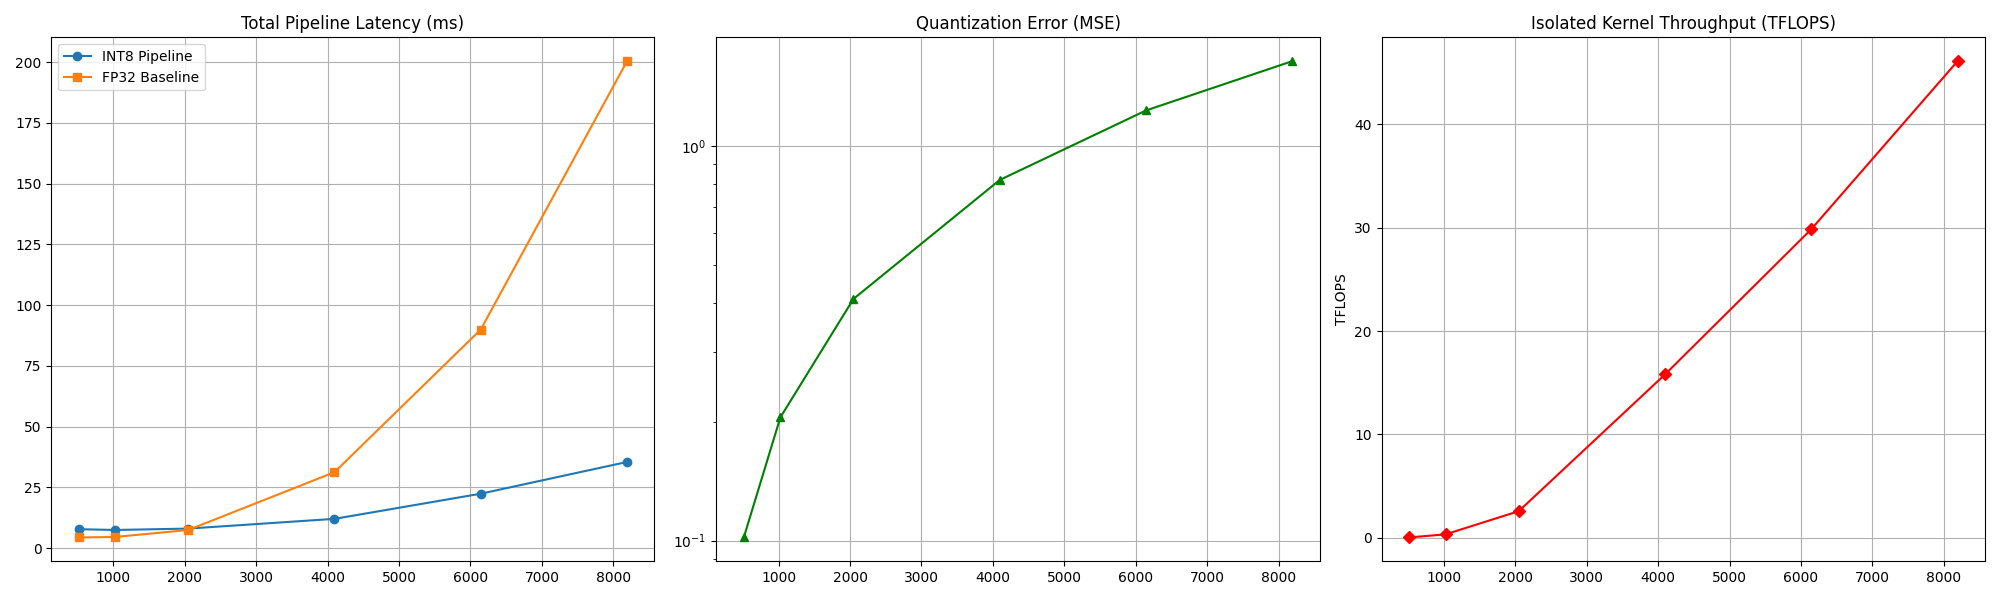
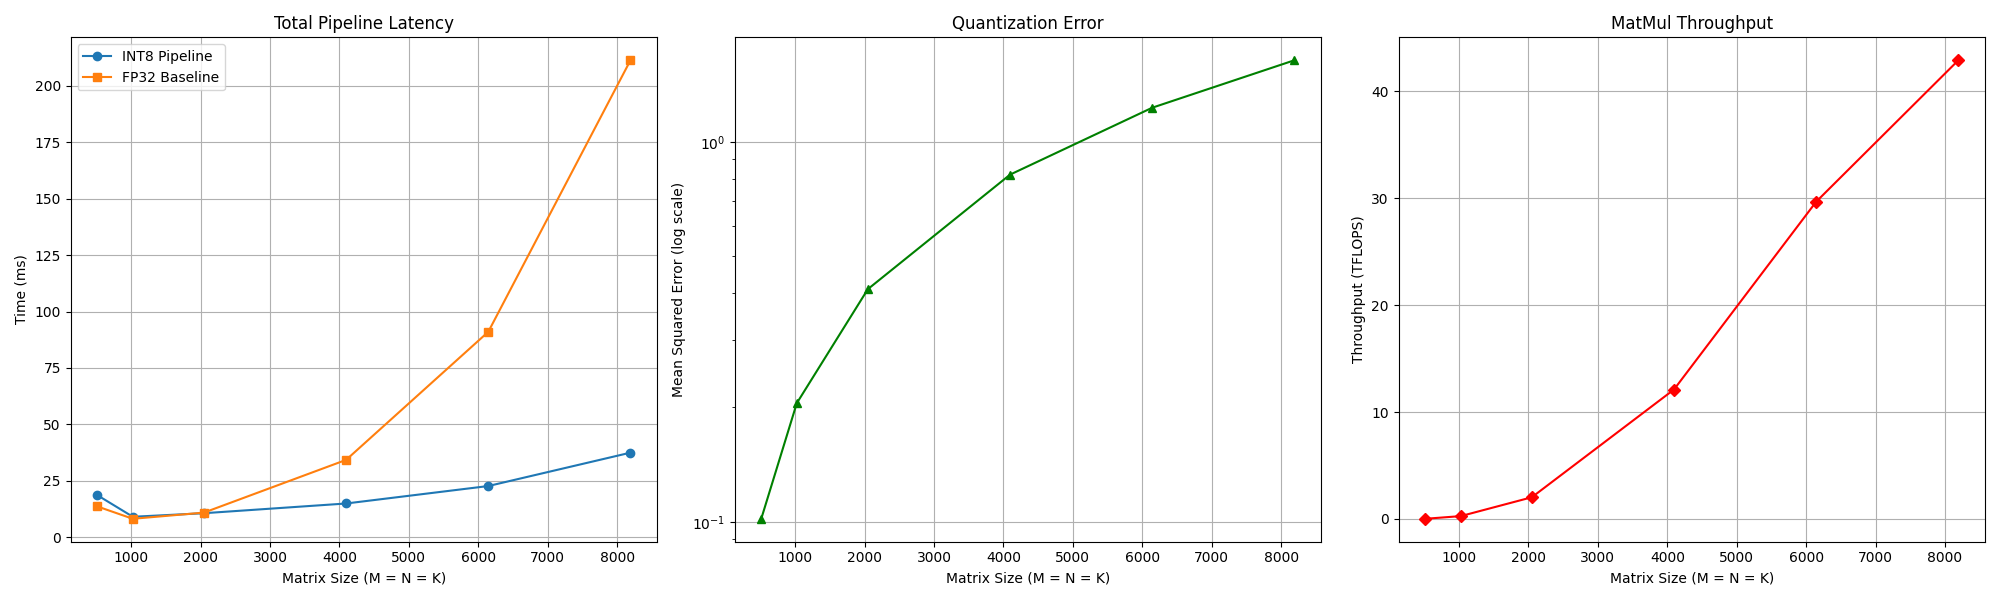
chore: add label to plot

diff --git a/src/benchmark.py b/src/benchmark.py
@@ -45,20 +45,25 @@ fig, (ax1, ax2, ax3) = plt.subplots(1, 3, figsize=(20, 6))
 # plot exec time comparison 
 ax1.plot(sizes, int8_times, marker='o', label="INT8 Pipeline")
 ax1.plot(sizes, fp32_times, marker='s', label="FP32 Baseline")
-ax1.set_title('Total Pipeline Latency (ms)')
+ax1.set_title('Total Pipeline Latency')
+ax1.set_xlabel('Matrix Size (M = N = K)')
+ax1.set_ylabel('Time (ms)')
 ax1.legend()
 ax1.grid(True)
 
 # plot correctness (MSE)
 ax2.plot(sizes, mse_list, marker='^', color='green')
-ax2.set_title('Quantization Error (MSE)')
+ax2.set_title('Quantization Error')
+ax2.set_xlabel('Matrix Size (M = N = K)')
+ax2.set_ylabel('Mean Squared Error (log scale)')
 ax2.set_yscale('log')
 ax2.grid(True)
 
 # plot throughput (TFLOPS)
 ax3.plot(sizes, tflops_list, marker='D', color='red')
-ax3.set_title('Isolated Kernel Throughput (TFLOPS)')
-ax3.set_ylabel('TFLOPS')
+ax3.set_title('MatMul Throughput')
+ax3.set_xlabel('Matrix Size (M = N = K)')
+ax3.set_ylabel('Throughput (TFLOPS)')
 ax3.grid(True)
 
 fig.tight_layout()
